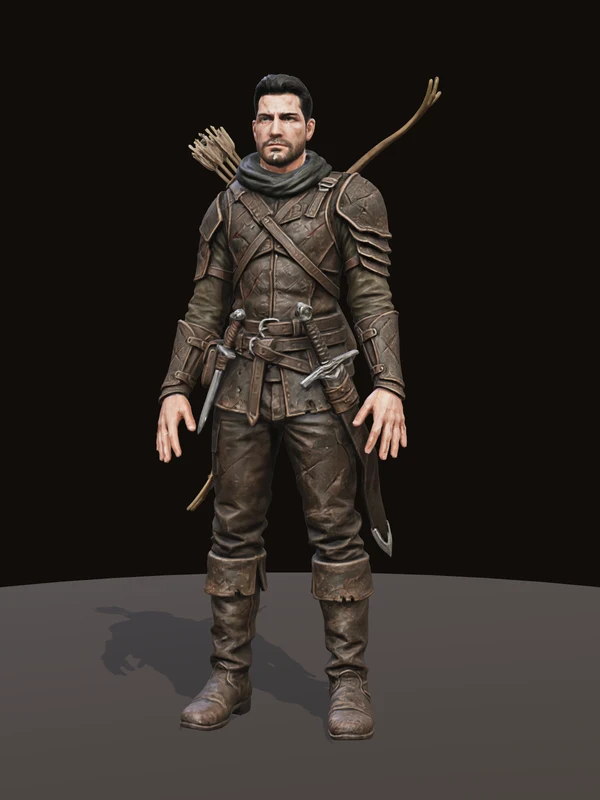
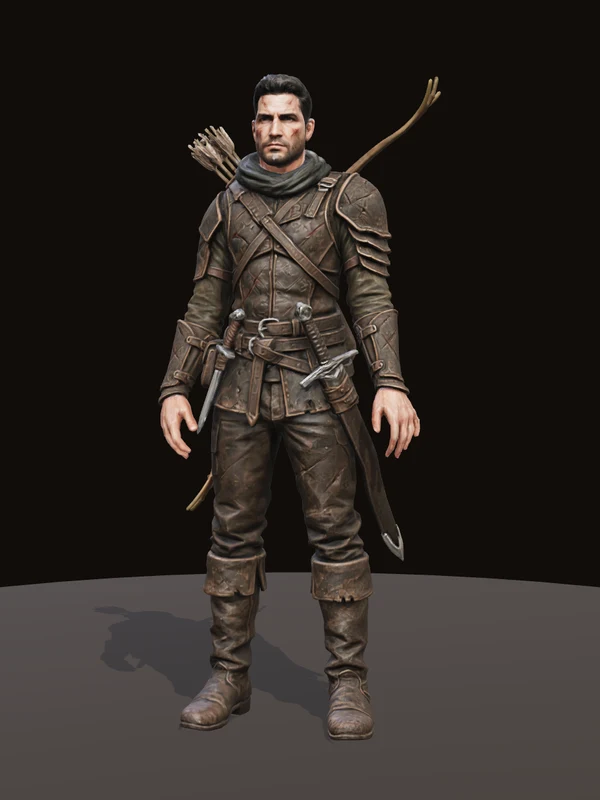
Asset library: Thalbern's face painted from a close-up of his own sheet
The same as Wollandora's, on the model he already had: free.

diff --git a/asset-library/README.md b/asset-library/README.md
@@ -222,7 +222,7 @@ Then the face is taken from the sheet. A generator makes its figure from the she
 - `"sheet": "front"` paints the front view alone, upright, 1024 by 1536. A face gets half as many pixels again as on the sheet of two views. The back view was only ever a reference: the model is made from the front.
 - The sheet is lined up with the head by the top of the figure and the middle of its crown. On Wollandora it landed true. If eyes come out doubled, the head is off the sheet: look at `faceFromSheet` in `rig.json`.
 - It fades out where the head turns away from the sheet, so cheeks seen from the side keep the generator's paint, and the join can show as a faint patch.
-- The six figures made before 2026-11-15 have not had it.
+- Thalbern has had it too, on the model he already had, for nothing: his face had been waxy, with pale eyes. Branka, Garlan, Lyra, Milos, Poppen and the owlbear have not. `"face": "close"` in the brief and `--redo=face` does it, and the owlbear's would want a beast's face found, which the face model may not do.
 
 `"face": "close"` goes further, and is what Wollandora has. The owner, of the sheet's face on the model: "could we make the face even better?" The sheet's face is 130 pixels across, and it showed.
 
